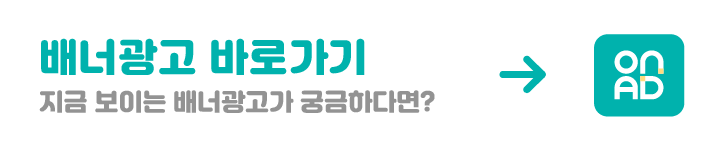
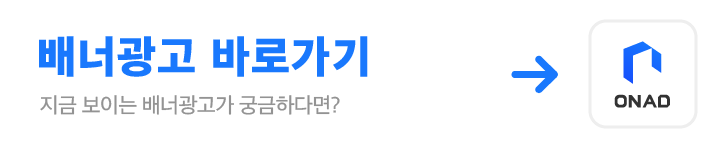
마이페이지 새로운 로고 적용

diff --git a/client-ts/public/index.html b/client-ts/public/index.html
@@ -55,14 +55,32 @@
   <meta name="canonical" href="%PUBLIC_URL%" />
   <meta charset="utf-8" />
   <meta name="viewport" content="width=device-width, initial-scale=1" />
-  <meta name="theme-color" content="#000000" />
+  <meta name="theme-color" content="#ffffff">
   <!-- Global site tag (gtag.js) - Google Analytics -->
   <!--   
       manifest.json provides metadata used when your web app is installed on a
       user's mobile device or desktop. See https://developers.google.com/web/fundamentals/web-app-manifest/
     -->
   <!-- <link rel="manifest" href="%PUBLIC_URL%/manifest.json" /> -->
-  <link rel="icon" href="%PUBLIC_URL%/favicon.ico">
+
+  <!-- Favicon -->
+  <link rel="apple-touch-icon" sizes="57x57" href="%PUBLIC_URL%/favicons/apple-icon-57x57.png">
+  <link rel="apple-touch-icon" sizes="60x60" href="%PUBLIC_URL%/favicons/apple-icon-60x60.png">
+  <link rel="apple-touch-icon" sizes="72x72" href="%PUBLIC_URL%/favicons/apple-icon-72x72.png">
+  <link rel="apple-touch-icon" sizes="76x76" href="%PUBLIC_URL%/favicons/apple-icon-76x76.png">
+  <link rel="apple-touch-icon" sizes="114x114" href="%PUBLIC_URL%/favicons/apple-icon-114x114.png">
+  <link rel="apple-touch-icon" sizes="120x120" href="%PUBLIC_URL%/favicons/apple-icon-120x120.png">
+  <link rel="apple-touch-icon" sizes="144x144" href="%PUBLIC_URL%/favicons/apple-icon-144x144.png">
+  <link rel="apple-touch-icon" sizes="152x152" href="%PUBLIC_URL%/favicons/apple-icon-152x152.png">
+  <link rel="apple-touch-icon" sizes="180x180" href="%PUBLIC_URL%/favicons/apple-icon-180x180.png">
+  <link rel="icon" type="image/png" sizes="192x192" href="%PUBLIC_URL%/favicons/android-icon-192x192.png">
+  <link rel="icon" type="image/png" sizes="32x32" href="%PUBLIC_URL%/favicons/favicon-32x32.png">
+  <link rel="icon" type="image/png" sizes="96x96" href="%PUBLIC_URL%/favicons/favicon-96x96.png">
+  <link rel="icon" type="image/png" sizes="16x16" href="%PUBLIC_URL%/favicons/favicon-16x16.png">
+  <link rel="manifest" href="%PUBLIC_URL%/manifest.json">
+  <meta name="msapplication-TileColor" content="#ffffff">
+  <meta name="msapplication-TileImage" content="%PUBLIC_URL%/favicons/ms-icon-144x144.png">
+
   <!--   
       Notice the use of %PUBLIC_URL% in the tags above.
       It will be replaced with the URL of the `public` folder during the build.

diff --git a/client-ts/src/pages/others/NotFound.tsx b/client-ts/src/pages/others/NotFound.tsx
@@ -4,6 +4,7 @@ import makeStyles from '@material-ui/core/styles/makeStyles';
 import Button from '@material-ui/core/Button';
 import Grid from '@material-ui/core/Grid';
 import Typography from '@material-ui/core/Typography';
+import OnadLogo from '../../atoms/Logo/OnadLogo';
 
 const useStyles = makeStyles((theme) => ({
   root: {
@@ -26,7 +27,6 @@ const useStyles = makeStyles((theme) => ({
     marginRight: theme.spacing(5),
   },
   linkButton: {
-    color: theme.palette.common.white,
     textTransform: 'none',
     padding: theme.spacing(2)
   },
@@ -39,14 +39,12 @@ export default function NotFound(): JSX.Element {
     <Grid container className={classes.root}>
       <Grid className={classes.container} item xs={12}>
 
-        <img src="/pngs/logo/onad_logo_blue.jpg" alt="logo" width="150px" />
-        <br />
-        <br />
+        <OnadLogo width={150} />
 
-        <Typography variant="h4">페이지를 찾을 수 없습니다.</Typography>
-        <Typography>방문을 원하시는 페이지의 주소가 잘못되었거나 혹은 </Typography>
-        <Typography>오류 및 변경, 삭제로 인해 요청하신 페이지를 찾을 수 없습니다.</Typography>
-        <Typography>문의가 필요하시다면, support@onad.io 로 메일을 보내주세요! 빠른 시일내에 답변드릴게요.</Typography>
+        <Typography color="textPrimary" variant="h6">페이지를 찾을 수 없습니다.</Typography>
+        <Typography color="textPrimary">방문을 원하시는 페이지의 주소가 잘못되었거나 혹은 </Typography>
+        <Typography color="textPrimary">오류 및 변경, 삭제로 인해 요청하신 페이지를 찾을 수 없습니다.</Typography>
+        <Typography color="textPrimary">문의가 필요하시다면, support@onad.io 로 메일을 보내주세요! 빠른 시일내에 답변드릴게요.</Typography>
 
         <br />
         <Button
@@ -57,10 +55,7 @@ export default function NotFound(): JSX.Element {
           to="/"
           component={Link}
         >
-          <Typography>
-            OnAD 메인으로 이동
-          </Typography>
-
+          OnAD 메인으로 이동
         </Button>
       </Grid>
     </Grid>

diff --git a/client-ts/src/organisms/main/main/login/CreatorLoginForm.tsx b/client-ts/src/organisms/main/main/login/CreatorLoginForm.tsx
@@ -2,7 +2,7 @@ import React, { useState } from 'react';
 import classnames from 'classnames';
 import {
   Dialog, DialogContent, Button, Typography,
-  CircularProgress, TextField, Divider, IconButton,
+  CircularProgress, TextField, Divider, IconButton, useTheme,
 } from '@material-ui/core';
 import { Alert } from '@material-ui/lab';
 import { Close } from '@material-ui/icons';
@@ -12,6 +12,7 @@ import HOST from '../../../../config';
 import history from '../../../../history';
 import { useEventTargetValue } from '../../../../utils/hooks';
 import StyledTooltip from '../../../../atoms/Tooltip/StyledTooltip';
+import OnadLogo from '../../../../atoms/Logo/OnadLogo';
 
 interface CreatorLoginFormProps {
   open: boolean;
@@ -50,6 +51,8 @@ export default function CreatorLoginForm({
         setError(err.response.data.message);
       });
   };
+
+  const theme = useTheme();
   return (
     (
       // 크리에이터 로그인 창
@@ -71,8 +74,9 @@ export default function CreatorLoginForm({
             <Close />
           </IconButton>
 
-          <img src="/pngs/logo/onad_logo_vertical_small.png" alt="" width={80} height={80} />
-
+          <div style={{ marginBottom: 8, marginTop: 8 }}>
+            <OnadLogo width={80} />
+          </div>
           <Typography variant="h6">온애드 방송인 로그인</Typography>
 
           <form style={{ marginTop: 16 }}>

diff --git a/client-ts/src/organisms/main/main/login/MarketerLoginForm.tsx b/client-ts/src/organisms/main/main/login/MarketerLoginForm.tsx
@@ -9,7 +9,8 @@ import {
   Divider,
   Typography,
   IconButton,
-  CircularProgress
+  CircularProgress,
+  useTheme
 } from '@material-ui/core';
 import { Close } from '@material-ui/icons';
 import useStyles from '../style/LoginForm.style';
@@ -17,6 +18,7 @@ import axios from '../../../../utils/axios';
 import FindDialog from './FindDialog';
 import HOST from '../../../../config';
 import history from '../../../../history';
+import OnadLogo from '../../../../atoms/Logo/OnadLogo';
 
 interface Props {
   open: boolean;
@@ -83,6 +85,8 @@ function LoginForm({
       });
   };
 
+  const theme = useTheme();
+
   const dialog = (
     // 마케터 로그인 창
     <Dialog
@@ -97,7 +101,9 @@ function LoginForm({
           <Close />
         </IconButton>
 
-        <img src="/pngs/logo/onad_logo_vertical_small.png" alt="" width={80} height={80} />
+        <div style={{ marginBottom: 8, marginTop: 8 }}>
+          <OnadLogo width={80} />
+        </div>
 
         <Typography variant="h6">온애드 광고주 로그인</Typography>
 

diff --git a/client-ts/src/atoms/Logo/OnadLogo.tsx b/client-ts/src/atoms/Logo/OnadLogo.tsx
@@ -1,0 +1,37 @@
+import { useTheme } from '@material-ui/core';
+import React from 'react';
+
+export interface OnadLogoProps {
+  width?: number;
+  height?: number;
+}
+export default function OnadLogo({
+  width,
+  height,
+  ...props
+}: OnadLogoProps): JSX.Element {
+  const theme = useTheme();
+  return (
+    <div>
+      {theme.palette.type === 'light' ? (
+        <img
+          src="/pngs/logo/renewal/1x/logo_onad_x.png"
+          alt=""
+          width={width}
+          height={height}
+          draggable={false}
+          {...props}
+        />
+      ) : (
+        <img
+          src="/pngs/logo/renewal/1x/logo_onad_x_w.png"
+          alt=""
+          width={width}
+          height={height}
+          draggable={false}
+          {...props}
+        />
+      )}
+    </div>
+  );
+}

diff --git a/client-ts/src/organisms/mypage/layouts/Sidebar/ResponsiveDrawer.tsx b/client-ts/src/organisms/mypage/layouts/Sidebar/ResponsiveDrawer.tsx
@@ -14,6 +14,7 @@ import { Link } from 'react-router-dom';
 import { drawerWidth } from '../../../../assets/jss/onad';
 import history from '../../../../history';
 import { MypageRoute } from '../../../../pages/mypage/routes';
+import OnadLogo from '../../../../atoms/Logo/OnadLogo';
 
 const useStyles = makeStyles((theme: Theme) => ({
   root: {
@@ -86,11 +87,7 @@ export default function ResponsiveDrawer(props: ResponsiveDrawerProps): JSX.Elem
     <div>
       <div className={classes.toolbar}>
         <Button onClick={handleLogoClick}>
-          <img
-            src="/pngs/logo/onad_logo_vertical_white.png"
-            alt="logo"
-            style={{ width: 50, margin: '0px 16px' }}
-          />
+          <OnadLogo width={120} />
         </Button>
       </div>
       <Divider />

diff --git a/client-ts/src/organisms/mypage/marketer/office/business/BusinessViewDialog.tsx b/client-ts/src/organisms/mypage/marketer/office/business/BusinessViewDialog.tsx
@@ -42,7 +42,7 @@ const BusinessViewDialog = (props: BusinessRegiUploadDialogProps): JSX.Element =
     open, handleClose, businessRegiImage
   } = props;
   const classes = useStyles();
-  let defaultImage = '/pngs/logo/onad_logo_vertical_small.png';
+  let defaultImage = '/pngs/logo/renewal/1x/logo_onad_y_w.png';
   let isPdf = false;
   if (typeof businessRegiImage === 'string') {
     if (businessRegiImage.indexOf('pdf') === -1) {

diff --git a/client-ts/src/index.tsx b/client-ts/src/index.tsx
@@ -62,8 +62,8 @@ const OnadIndex = (): JSX.Element => {
           <Route path="/mypage/creator" component={CreatorDashboard} />
           <Route path="/mypage/marketer" component={MarketerDashboard} />
           <Route exact path="/marketer/charge" component={ChargeDialog} />
+          <Route component={NotFound} />
         </ThemeProvider>
-        <Route component={NotFound} />
       </Switch>
     </Router>
   );

diff --git a/client-ts/src/organisms/mypage/creator/AdPageManage/AdPageImageUploadForm.tsx b/client-ts/src/organisms/mypage/creator/AdPageManage/AdPageImageUploadForm.tsx
@@ -45,6 +45,10 @@ interface LandingImageUploadFormProps {
   userData: AdPageData;
   handleSnackOpen: () => void;
 }
+/**
+ * @deprecated
+ * @author hwasurr 2021. 02. 02
+ */
 export default function LandingImageUploadForm({
   userData, handleSnackOpen
 }: LandingImageUploadFormProps): JSX.Element {

diff --git a/client-ts/src/organisms/mypage/creator/AdPageManage/AdPagePanelBanner.tsx b/client-ts/src/organisms/mypage/creator/AdPageManage/AdPagePanelBanner.tsx
@@ -39,6 +39,10 @@ const useStyles = makeStyles((theme) => ({
 interface AdPagePanelBannerProps {
   userData: AdPageData;
 }
+/**
+ * @deprecated
+ * @author hwasurr 2021. 02. 02
+ */
 export default function AdPagePanelBanner({
   userData
 }: AdPagePanelBannerProps): JSX.Element {

diff --git a/client-ts/src/utils/tooltipContentConfig.ts b/client-ts/src/utils/tooltipContentConfig.ts
@@ -54,6 +54,9 @@ const budgetConfig = [
   }
 ];
 
+/**
+ * @deprecated
+ */
 const landingManageConfig = [
   {
     title: '소개글 이란?',
